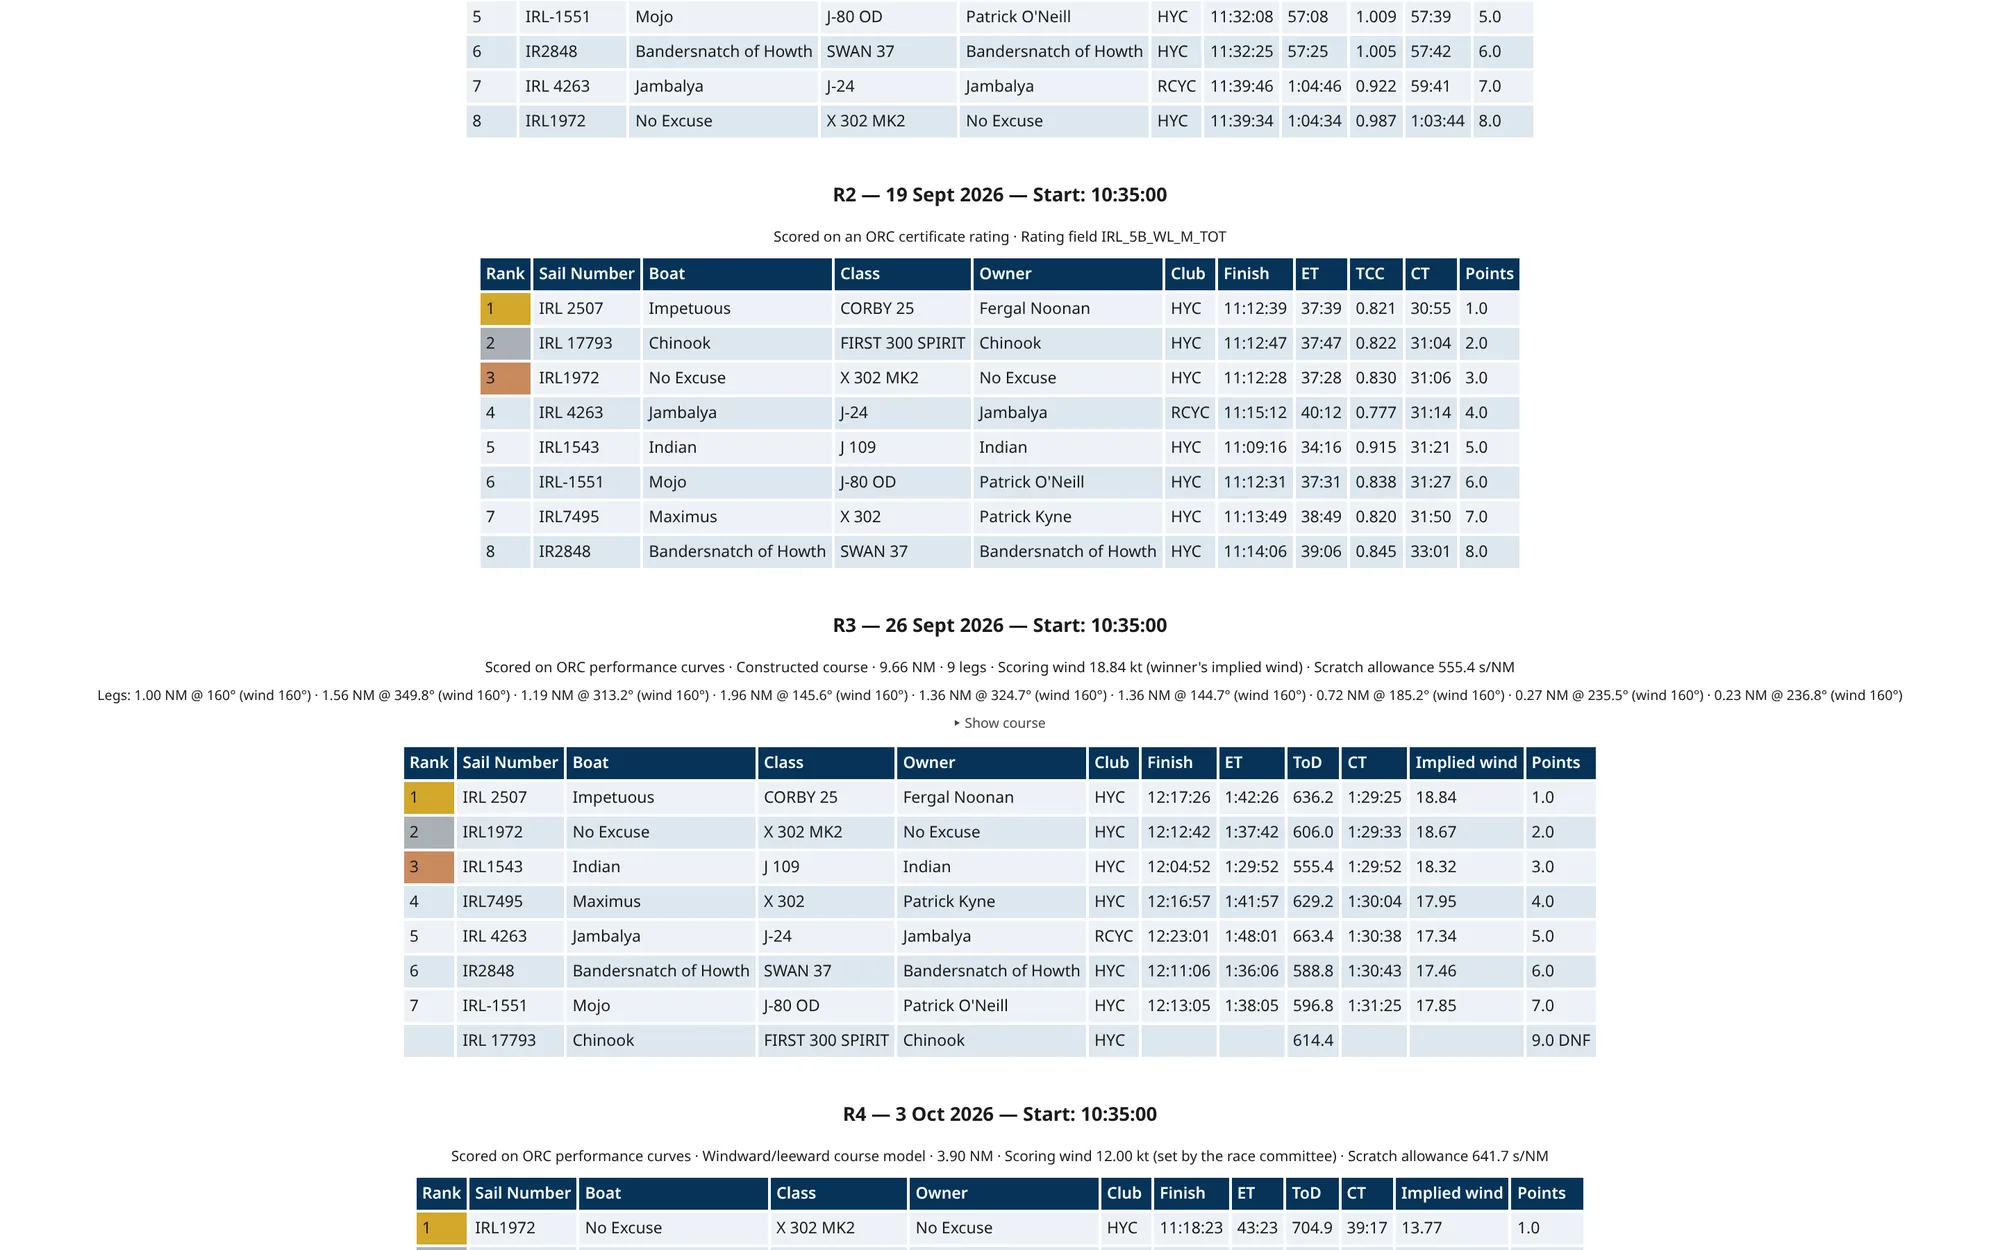
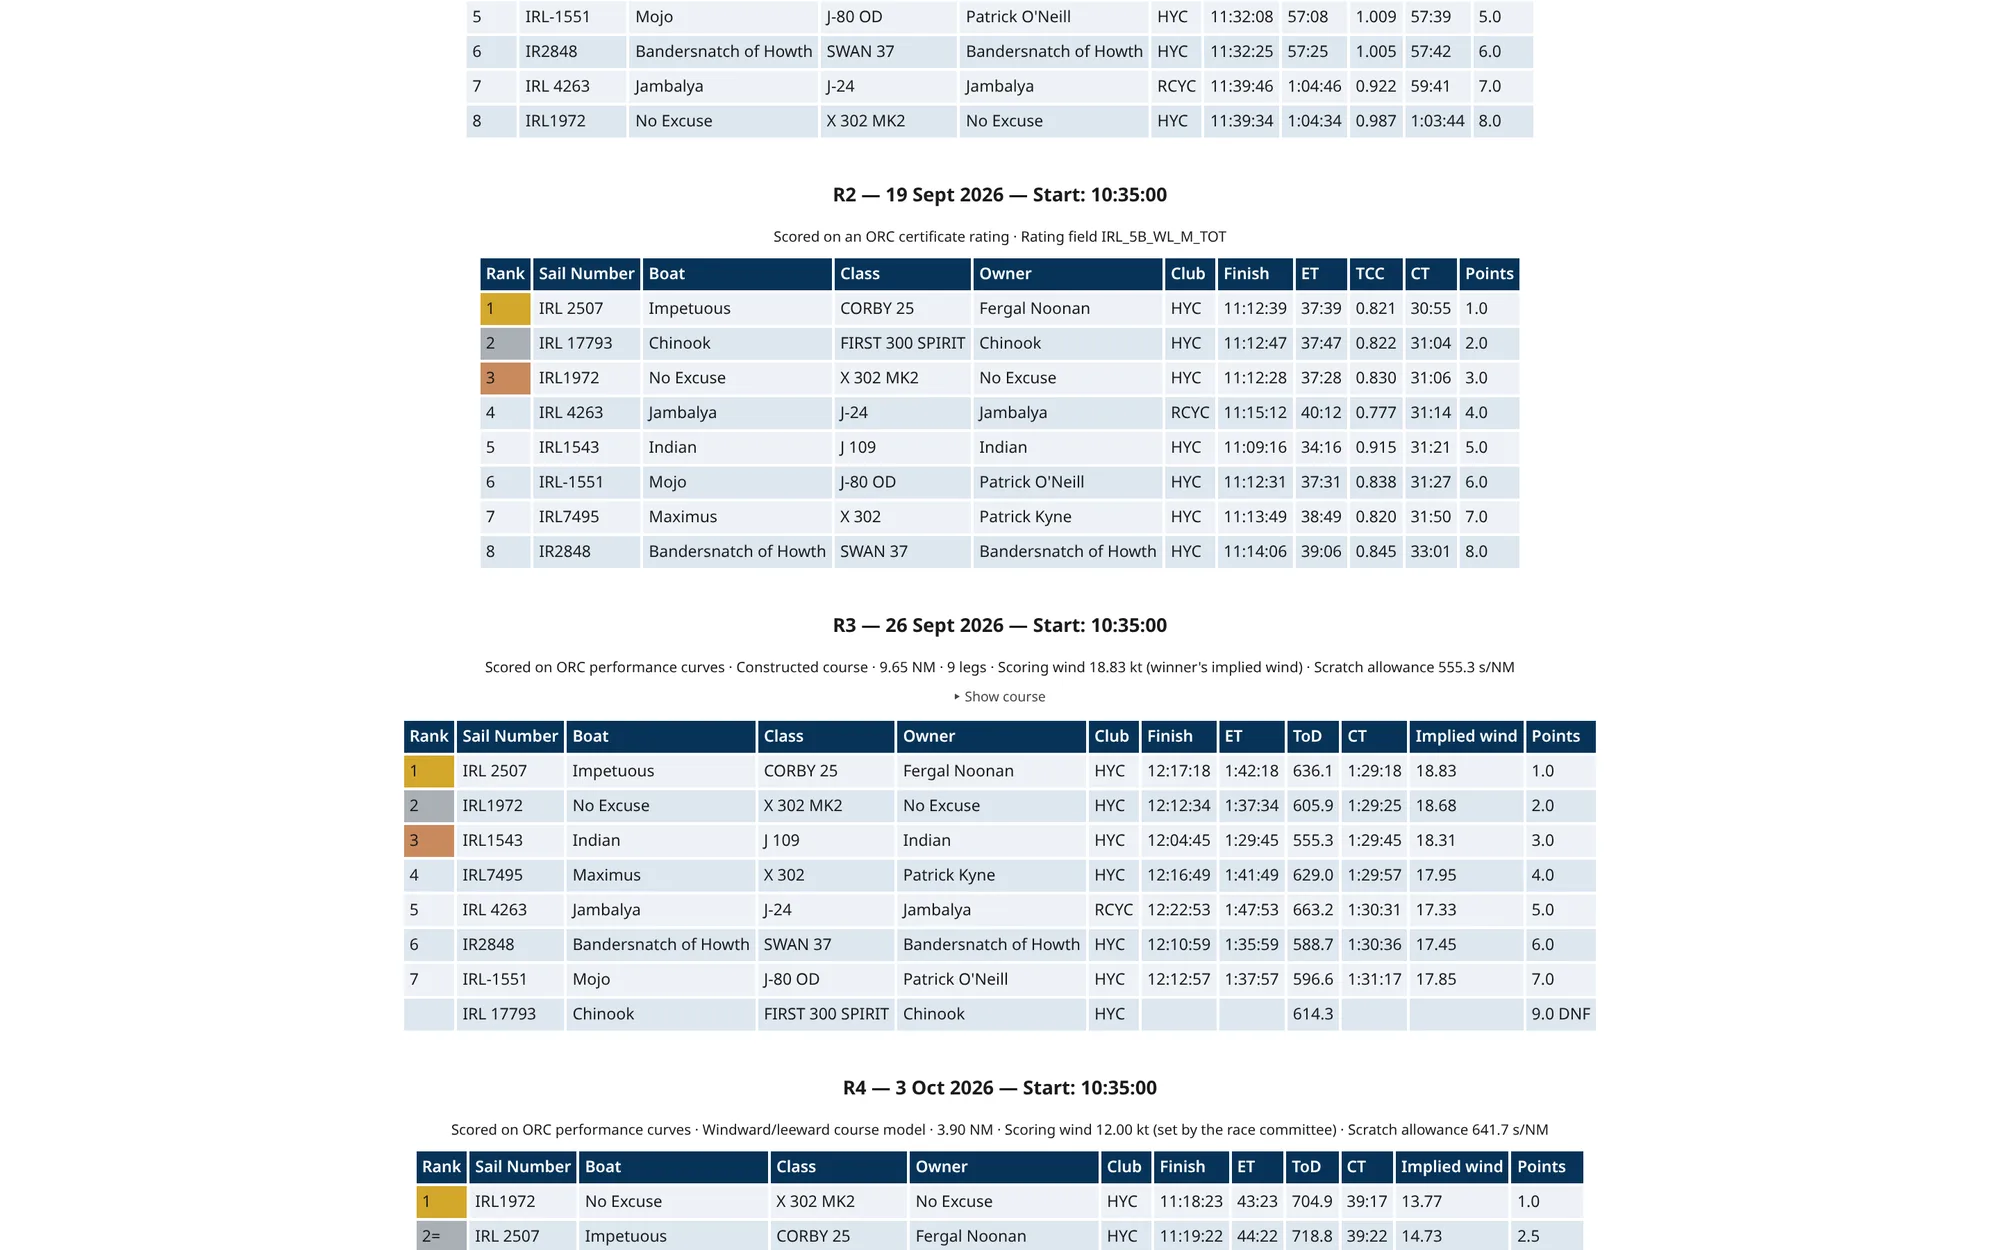
Recapture the ORC shot with the course folded away
The published ORC race now keeps its leg table under Show course with
the map, so the shot and its alt text show the audit header and implied
winds with the course folded.

Changed region(s): [[0.062, 0.5304, 0.93, 0.9984]]

diff --git a/app/features/page.tsx b/app/features/page.tsx
@@ -470,7 +470,7 @@ const groups: Group[] = [
         note: ON_REQUEST_NOTE,
         shot: {
           src: "/screenshots/features/orc.webp",
-          alt: "A published ORC performance-curve race: the scoring-wind audit header, implied winds, and the constructed course's legs",
+          alt: "A published ORC performance-curve race: the scoring-wind audit header, implied winds, and the constructed course folded away under Show course",
         },
       },
       {
